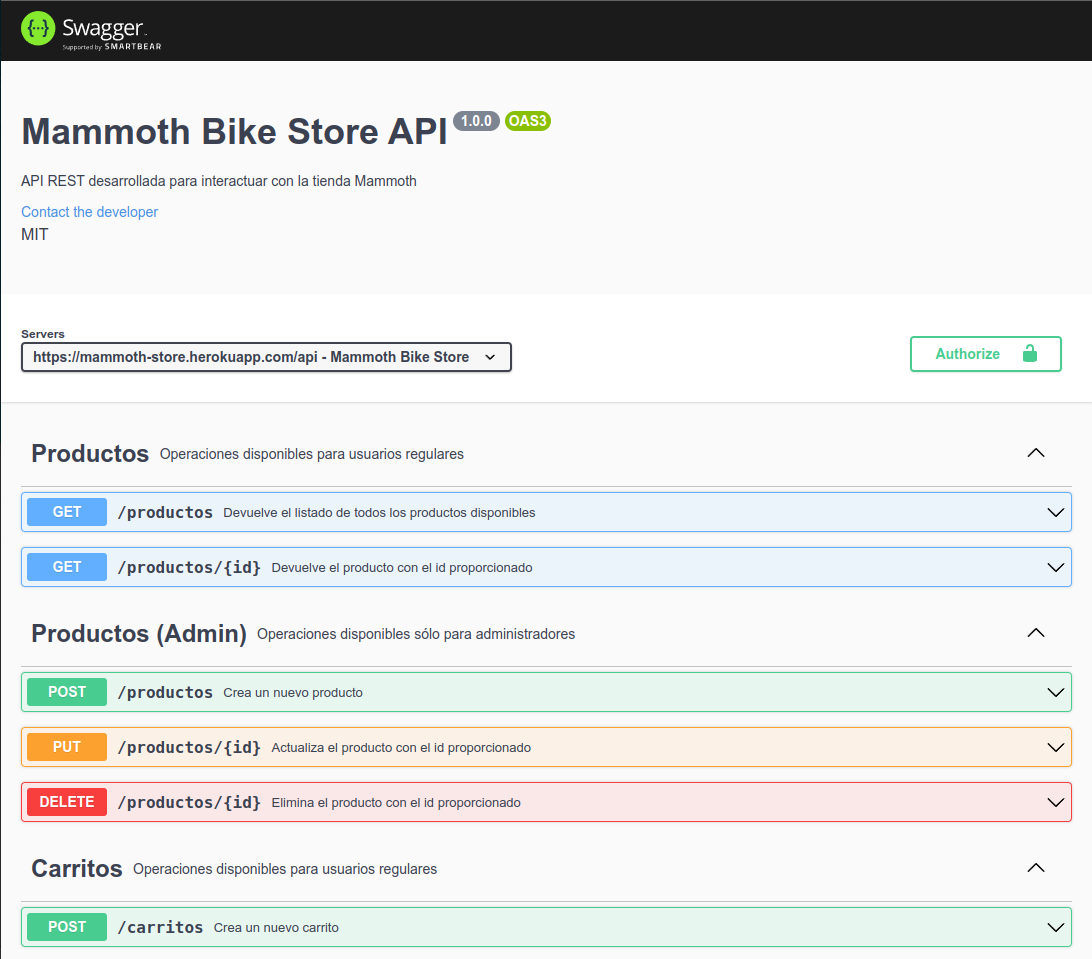
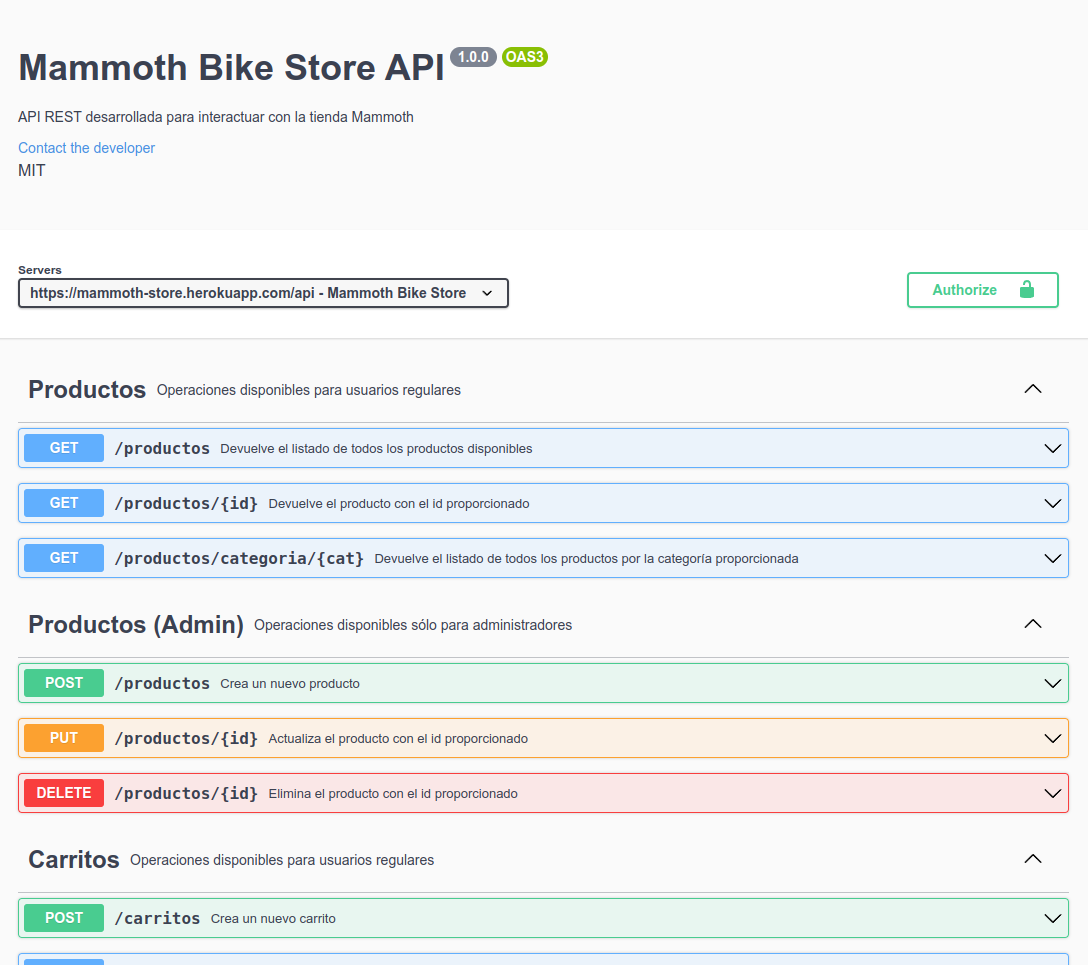
update Swagger Doc y README

diff --git a/README.md b/README.md
@@ -226,12 +226,13 @@ Consiste en las siguientes rutas:
 
 #### Router /api/productos
 
-| Método | Endpoint                | Descripción                                                                                                  |
-| ------ | ----------------------- | ------------------------------------------------------------------------------------------------------------ |
-| GET    | **/api/productos/:id?** | Me permite listar todos los productos disponibles ó un producto por su id                                    |
-| POST   | **/api/productos/**     | Para incorporar productos al listado **(disponible solo para administradores)**                              |
-| PUT    | **/api/productos/:id**  | Actualiza un producto por su id. Admite actualizaciones parciales **(disponible solo para administradores)** |
-| DELETE | **/api/productos/:id**  | Borra un producto por su id **(disponible solo para administradores)**                                       |
+| Método | Endpoint                          | Descripción                                                                                                  |
+| ------ | --------------------------------- | ------------------------------------------------------------------------------------------------------------ |
+| GET    | **/api/productos/:id?**           | Me permite listar todos los productos disponibles ó un producto por su id                                    |
+| GET    | **/api/productos/categoria/:cat** | Devuelve el listado de todos los productos por la categoría proporcionada                                    |
+| POST   | **/api/productos/**               | Para incorporar productos al listado **(disponible solo para administradores)**                              |
+| PUT    | **/api/productos/:id**            | Actualiza un producto por su id. Admite actualizaciones parciales **(disponible solo para administradores)** |
+| DELETE | **/api/productos/:id**            | Borra un producto por su id **(disponible solo para administradores)**                                       |
 
 #### Router /api/carritos
 
@@ -379,8 +380,9 @@ WSP al generar pedido (Administrador)
 ### Logs
 
 Se utilizó la librería `winston` para generar logs eficientes por consola y archivos. Evitándose el uso del console.log que por su naturaleza síncrona trae problemas de rendimiento.
+También se utiliza el middleware `morgan` cuya salida se canaliza a **Winston** mediante el nivel "http".
 
-Generé dos alternativas de logger según el entorno de ejecución (production o development).
+Generé dos alternativas de logger según el entorno de ejecución (`production` o `development`). Los registros de **morgan** solo se utilizan en modo development, por lo que la carga de dicho módulo se hace de manera condicional según el entorno de ejecución.
 
 Cada logger tiene asociados distintos transportes personalizados ya sea por consola o archivo. La personalización del formato de salida varía según el entorno, para adaptarse mejor a las necesidades y rendimiento.
 
